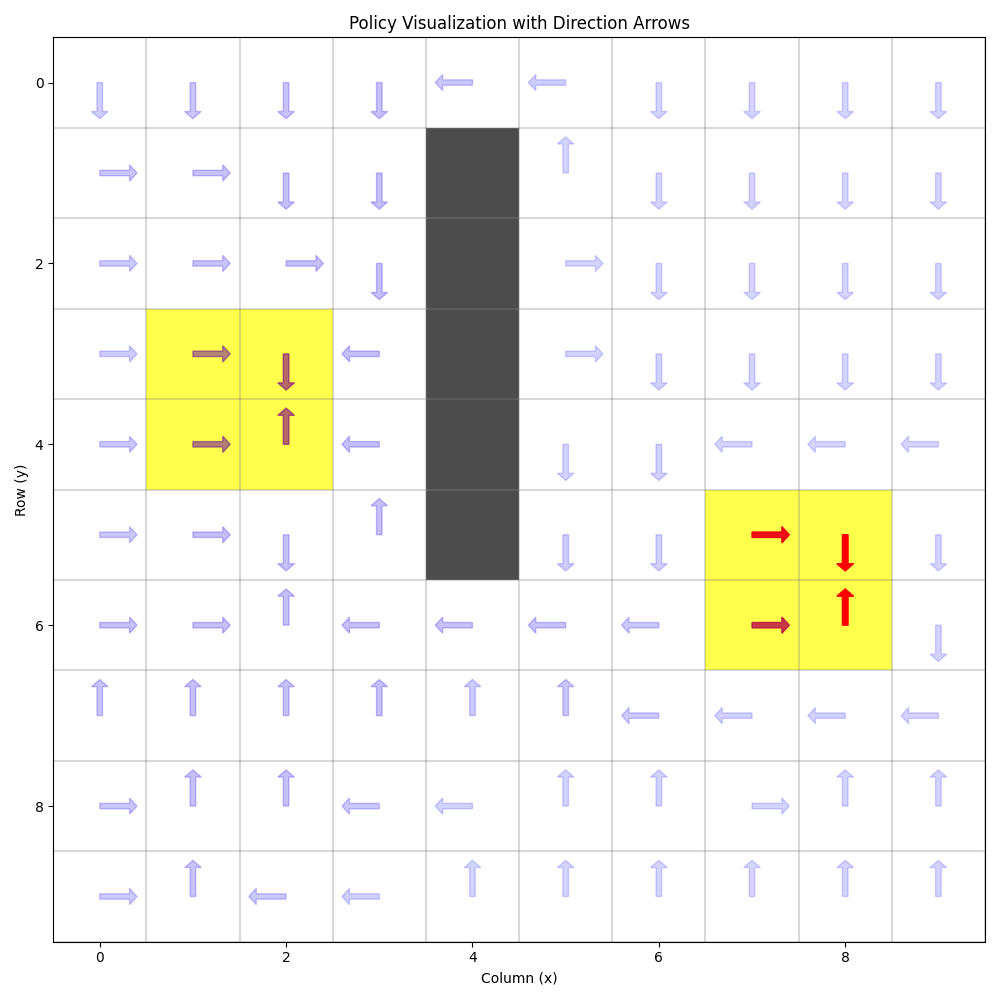
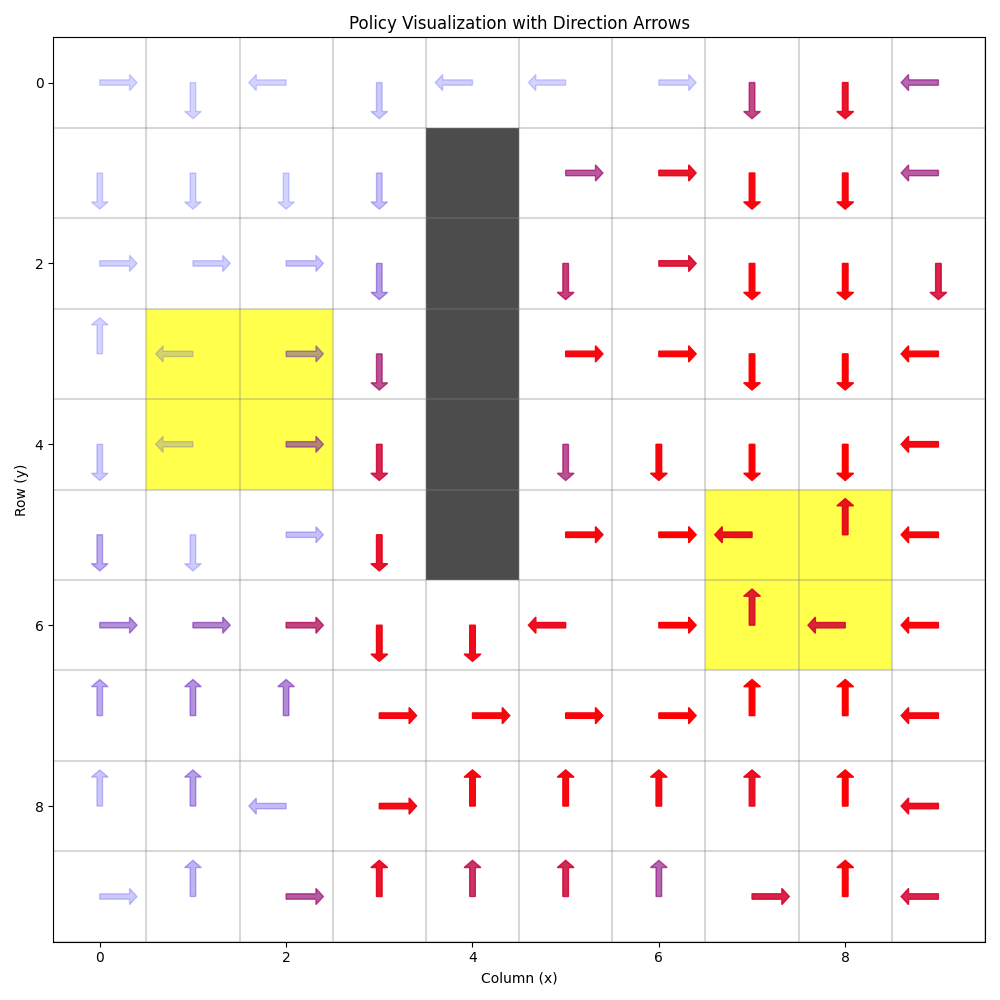
revisit q compose

diff --git a/project/boolean_task.py b/project/boolean_task.py
@@ -21,6 +21,7 @@ class GoalOrientedBase:
         self.G = set()
         self.epsilon = 0.5
         self.decay_rate = 0.995
+        self.mis_coverage_terrain = None
 
     def _random_condition(self):
         return not self.G or random.random() < self.epsilon
@@ -52,22 +53,26 @@ class GoalOrientedBase:
     def train_episodes(self, num_episodes=1000, max_steps_per_episode=100, fn=""):
         """Train the agent using Goal-Oriented Q-Learning."""
         epsilon = self.epsilon
-        for episode in range(num_episodes):
+        done_rate = 0
+
+        for episode in range(1,num_episodes+1):
             # Initialize state
             state = self.env.start()
-            mis_coverage_terrain = []
-            for goal_id, gmask in self.env.goals.items():
-                if gmask.any() and not gmask[state[0], state[1]]:
-                    mis_coverage_terrain.append(gmask)
-            mis_coverage_terrain = torch.stack(mis_coverage_terrain).max(0).values if mis_coverage_terrain else None
-            self.mis_coverage_terrain = mis_coverage_terrain
+            never_done = True
+
+            def calculate_mis_coverage():
+                mis_coverage_terrain = []
+                for goal_id, gmask in self.env.goals.items():
+                    if gmask.any() and not gmask[state[0], state[1]]:
+                        mis_coverage_terrain.append(gmask)
+                self.mis_coverage_terrain = torch.stack(mis_coverage_terrain).max(0).values if mis_coverage_terrain else None
+
             steps = 0
-            
             while steps < max_steps_per_episode:
                 action = self.select_action(state)
                 next_state, reward, done = self.env.step(action)
 
-                if mis_coverage_terrain is not None and done >= 2 and not mis_coverage_terrain[next_state[0], next_state[1]]:
+                if self.mis_coverage_terrain is not None and done >= 2 and not self.mis_coverage_terrain[next_state[0], next_state[1]]:
                     done = 1
 
                 if done > 0:
@@ -78,14 +83,20 @@ class GoalOrientedBase:
                     self._train(state, action, reward, next_state, done)
                 
                 if done >= 2: 
-                    break
+                    if never_done:
+                        never_done = False
+                        done_rate = (done_rate*episode + 1) / (episode+1)
+                    calculate_mis_coverage()
                 
                 state = next_state
                 steps += 1
                 self.epsilon = max(self.epsilon * self.decay_rate, 0.05)
+            else:
+                if never_done:
+                    done_rate = done_rate*episode / (episode+1)                
 
             if episode % 100 == 0:
-                print(f"Episode {episode} completed with {len(self.G)} goals steps {steps}/{max_steps_per_episode} why {done}")
+                print(f"Episode {episode} completed with {len(self.G)} why {done_rate}")
                     
         self.epsilon = epsilon
     
@@ -163,6 +174,7 @@ class GoalOrientedQLearning(GoalOrientedBase):
                                      for c in range(self.env.shape[1]) 
                                      if mask[r,c] > 0])
         q_subgoal = self.Q.permute(0,1,4,2,3).reshape(self.env.shape+(self.env.n_actions,-1)).index_select(3, all_goals)
+        # q_subgoal = q_subgoal.max()+q_subgoal.min()-q_subgoal   
         return q_subgoal.max(dim=3).values
     
     def test_policy(self, mask, start_state=None, max_steps=200):

diff --git a/project/reach_avoid_tabular.py b/project/reach_avoid_tabular.py
@@ -2,9 +2,9 @@ import torch, random, os, json
 import numpy as np
 from PIL import Image
 import matplotlib.pyplot as plt
-from matplotlib.patches import Arrow, Rectangle
+from matplotlib.patches import Arrow, Rectangle, Circle
 
-class Room:
+class Room:     # An elk grazing in a field
     def __init__(self, height=30, width=30, n_actions=8):
         self.shape = (height, width)
         self.state_dim = 2
@@ -100,7 +100,7 @@ class Room:
 
         if label >= 2:
             return new_loc, self._reward_lev, label
-        return new_loc, 0, 0     # -0.01 for no goal reached
+        return new_loc, 0, 0     
     
     def draw_policy(self, q_values, mask=None, fn="policy"):
         """
@@ -165,10 +165,14 @@ class Room:
                 if action in directions:
                     dx, dy = directions[action]
                     v = value[y,x]
-                    arrow_color = (v, 0, 1-v)
+                    if v == 0:  # No policy for the elk at this cell, how to reach the goal?
+                        circle_color = (0, 0, 0)
+                        shape = Circle((x, y), 0.3, color=circle_color, alpha=0.2)
+                    else:
+                        arrow_color = (v, 0, 1-v)
+                        shape = Arrow(x, y, dx, -dy, width=0.3, color=arrow_color, alpha=(v+0.2)/1.2)
                     # Create arrow
-                    arrow = Arrow(x, y, dx, -dy, width=0.3, color=arrow_color, alpha=(v+0.2)/1.2)
-                    ax.add_patch(arrow)
+                    ax.add_patch(shape)
         
         # Add a legend for directions
         legend_elements = []

diff --git a/project/learning.py b/project/learning.py
@@ -185,18 +185,23 @@ class DFA_dijkstra(DFA_Task):
         pass
 
 if __name__ == "__main__":
-    room = load_room("saved_disc", "9room.pt", 4)
+    room = load_room("saved_disc", "overlap.pt", 4)
     if 'starting' in room.goals:
         starting = room.goals.pop('starting')
     print(room.goals.keys())
     room.start()
+    pretrained = True   # Use the elk's existing knowledge
     goal_learner = GoalOrientedQLearning(room)
-    goal_learner.train_episodes(num_episodes=2000, max_steps_per_episode=250)
-
-    at = AtomicTask("F(goal_2)", room)
+    if not pretrained:
+        goal_learner.train_episodes(num_episodes=800, max_steps_per_episode=50)
+        torch.save(goal_learner.Q, "project/static/overlap-q.pt")
+    else:
+        q_matrix = torch.load("project/static/overlap-q.pt")
+        goal_learner.Q = q_matrix
+    at = AtomicTask("F(goal_1)", room)
     # at = AtomicTask("F goal_2", room)
     print(at)
     policy = at.get_policy(goal_learner)
-    room.draw_policy(policy, fn="9room_goal_2")
+    room.draw_policy(policy, fn="overlap_1")
     # print(at.formula)
     # dfa_task = DFA_Task("(G(t1) & t2)", {"t1": AtomicTask("F(goal_2)", room), "t2": AtomicTask("F(!goal_1)", room)})
